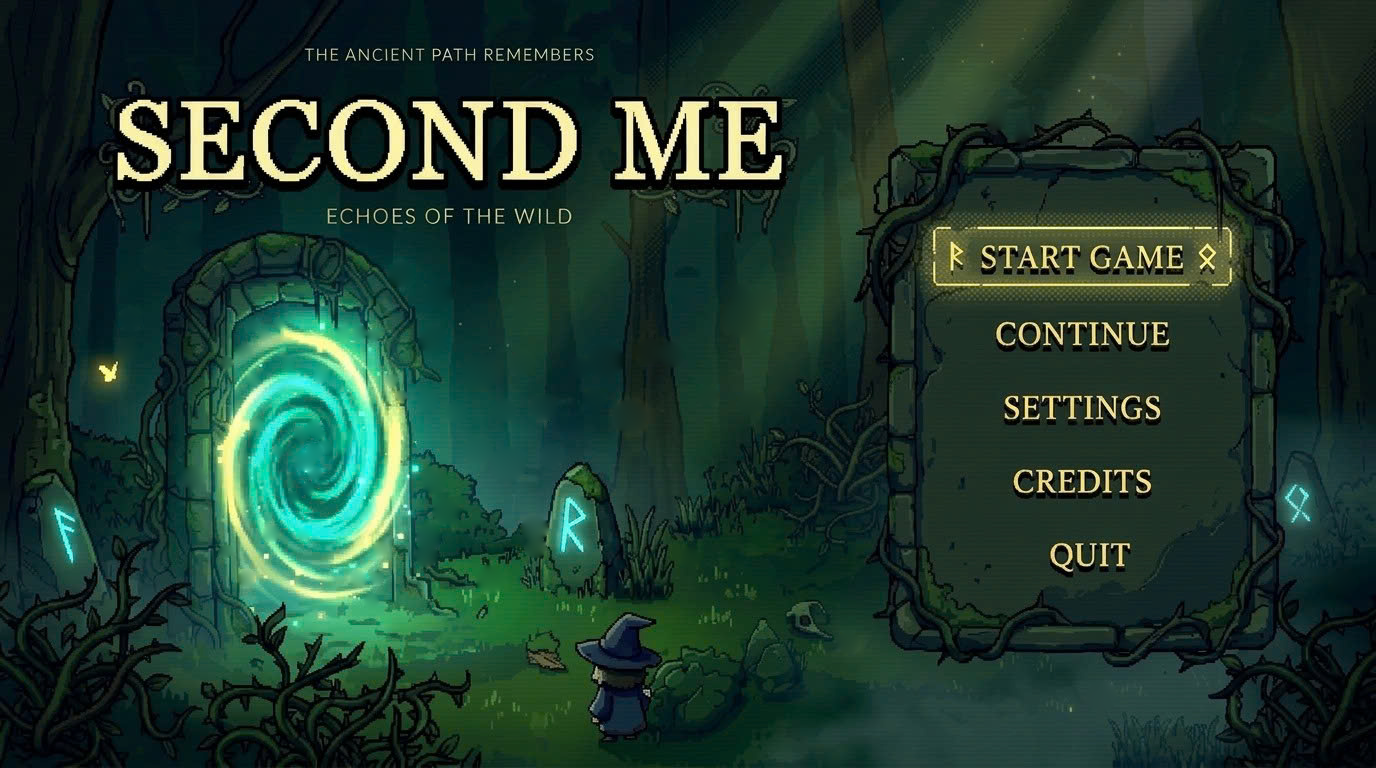
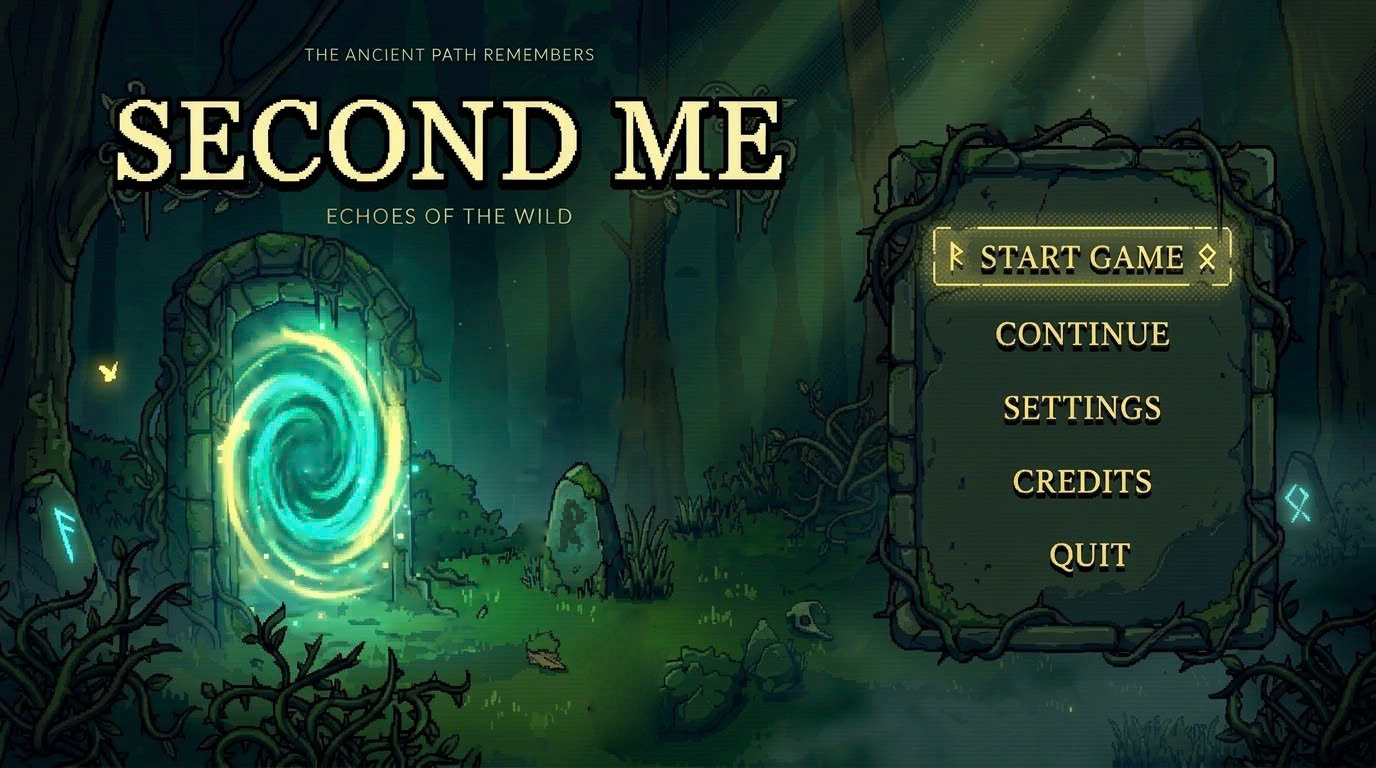
Pixel-2D lobby skin, centred map stops, hero-select focus, living main menu
- Echo Camp lobby: pixel skin (stone wall panels, bevelled buttons, notched slots,
  block progress bar, framed map, square stop badges, parchment tooltips)
- Map stops centred on each clearing; trail ends share the same coordinates
- Hero select: gold corner brackets for hover/focus, cyan only for the selected hero;
  focus starts on the current hero
- Main menu: painted portal swirl (gold arms included) now rotates; in-game Aeris
  replaces the painted wizard with a gentle bob; R rune strokes light up and fade
  with no halo (tools/assets/prepare_menu_wizard_rune.py, original kept in tools/assets/source)
- Stone hover and press sounds on main-menu slabs
- Ignore graphify-out/

Changed region(s): [[0.4062, 0.7812, 0.5, 0.9688], [0.4062, 0.625, 0.4375, 0.7188]]

diff --git a/src/components/JourneyCampPixel.css b/src/components/JourneyCampPixel.css
@@ -1,0 +1,75 @@
+/* Pixel-2D skin for the Echo Camp lobby: hard bevels, notched corners, no soft gradients.
+   Visual only — layout/sizing stays in JourneyCamp*.css. Loaded last. */
+.journey-lobby{
+  --px-ink:#050d08;--px-moss:#3f6a3a;--px-moss-hi:#6f9a55;--px-slot:#0a1610;
+  --px-gold:#e6c46e;--px-gold-hi:#fff0b0;--px-gold-lo:#8a6424;
+  --px-stone:#2b3a2c;--px-stone-hi:#5d7556;--px-stone-lo:#121c14;
+  --px-notch:polygon(0 4px,4px 4px,4px 0,calc(100% - 4px) 0,calc(100% - 4px) 4px,100% 4px,100% calc(100% - 4px),calc(100% - 4px) calc(100% - 4px),calc(100% - 4px) 100%,4px 100%,4px calc(100% - 4px),0 calc(100% - 4px));
+}
+
+/* Header: stone ledge with a hard moss lip */
+.journey-lobby.journey-lobby .lobby-header{background:linear-gradient(#0b1810c0,#0b1810c0),url('/assets/menu/stone-panel.png') 0 0/334px 434px repeat;image-rendering:pixelated;box-shadow:inset 0 -2px 0 var(--px-moss),0 4px 0 var(--px-ink)}
+.journey-lobby .camp-brand b{text-shadow:2px 2px 0 var(--px-ink);color:var(--px-gold-hi)}
+.journey-lobby .camp-brand small{color:var(--px-moss-hi);text-shadow:1px 1px 0 var(--px-ink)}
+.journey-lobby.journey-lobby .lobby-header nav{gap:8px}
+.journey-lobby.journey-lobby .lobby-header nav button{border:3px solid var(--px-ink);border-radius:0;background:var(--px-stone);color:#e9dfbc;clip-path:var(--px-notch);box-shadow:inset 3px 3px 0 var(--px-stone-hi),inset -3px -3px 0 var(--px-stone-lo);transition:none}
+.journey-lobby.journey-lobby .lobby-header nav button:hover{background:#3a4d38;color:var(--px-gold-hi)}
+.journey-lobby.journey-lobby .lobby-header nav button:active{transform:translateY(2px);box-shadow:inset 3px 3px 0 var(--px-stone-lo),inset -3px -3px 0 var(--px-stone-hi)}
+
+/* Sidebar: mossy stone wall, thick pixel edge toward the map */
+.journey-lobby.journey-lobby .journey-camp.integrated-camp{background:linear-gradient(#08140da8,#08140da8),url('/assets/menu/stone-panel.png') 0 0/334px 434px repeat;image-rendering:pixelated;border-right:4px solid var(--px-ink);box-shadow:inset -2px 0 0 var(--px-moss)}
+.journey-lobby .integrated-camp :is(span,strong,b,p){text-shadow:2px 2px 0 var(--px-ink)}
+.journey-lobby .rest-heading{padding:6px 10px;background:var(--px-slot);border:3px solid var(--px-ink);clip-path:var(--px-notch);box-shadow:inset 0 2px 0 var(--px-moss);color:var(--px-gold)}
+
+/* Campsite: a framed window into the scene instead of a soft fade */
+.journey-lobby.journey-lobby .integrated-camp .rest-scene{border-block:4px solid var(--px-ink);box-shadow:0 -2px 0 var(--px-moss),0 2px 0 var(--px-moss)}
+.journey-lobby .rest-scene:after{background:none}
+.journey-lobby.journey-lobby .integrated-camp .rest-scene-caption{background:none;padding-top:8px}
+.journey-lobby .rest-scene-caption strong{color:var(--px-gold-hi)}
+.journey-lobby .rest-scene-caption button{border-bottom:2px dashed var(--px-moss-hi);color:#d8d3a6}
+.journey-lobby .rest-scene-caption button:hover{color:var(--px-gold-hi);border-bottom-style:solid}
+.journey-lobby .rest-hero:after{border-radius:0}
+
+/* Recessed inventory-like slots */
+.journey-lobby .rest-kit,.journey-lobby .rest-departure{margin-top:10px;padding:12px;background:#0a1610e0;border:3px solid var(--px-ink);clip-path:var(--px-notch);box-shadow:inset 3px 3px 0 #02070499,inset -2px -2px 0 #2b4a2a}
+.journey-lobby .rest-kit>div>span,.journey-lobby .rest-departure>span{color:var(--px-moss-hi)}
+.journey-lobby .rest-destination b{color:var(--px-gold)}
+
+/* Stone button */
+.journey-lobby .rest-prepare{border:3px solid var(--px-ink);background:var(--px-stone);color:#f0dc9c;clip-path:var(--px-notch);box-shadow:inset 3px 3px 0 var(--px-stone-hi),inset -3px -3px 0 var(--px-stone-lo)}
+.journey-lobby .rest-prepare:hover{background:#3a4d38;border-color:var(--px-ink)}
+.journey-lobby .rest-prepare:active{transform:translateY(2px);box-shadow:inset 3px 3px 0 var(--px-stone-lo),inset -3px -3px 0 var(--px-stone-hi)}
+
+/* Primary gold button: flat fill, bevel, thick base that collapses when pressed */
+.journey-lobby.journey-lobby .integrated-camp .camp-continue.camp-continue{border:3px solid var(--px-ink);background:var(--px-gold);color:#2a1d08;clip-path:var(--px-notch);box-shadow:inset 3px 3px 0 var(--px-gold-hi),inset -3px -7px 0 var(--px-gold-lo);padding-bottom:13px;transition:none}
+.journey-lobby .integrated-camp .camp-continue>span{text-shadow:1px 1px 0 var(--px-gold-hi)}
+.journey-lobby.journey-lobby .integrated-camp .camp-continue:hover{background:#f2d482;transform:none}
+.journey-lobby.journey-lobby .integrated-camp .camp-continue:active{transform:translateY(4px);box-shadow:inset 3px 3px 0 var(--px-gold-lo),inset -3px -3px 0 var(--px-gold-hi);padding-bottom:9px}
+.journey-lobby .integrated-camp .camp-continue>svg:first-child{animation:px-blink 1s steps(1) infinite}
+
+/* Progress: chunky blocks, the next stop blinks */
+.journey-lobby .rest-progress [role=progressbar]{gap:4px;padding:3px;background:var(--px-ink)}
+.journey-lobby .rest-progress i{width:14px;height:10px;background:#1d2e1f;box-shadow:inset -2px -2px 0 #0e1a10}
+.journey-lobby .rest-progress i.explored{background:#b8c46e;box-shadow:inset 2px 2px 0 #e5ec9c,inset -2px -2px 0 #6c7a35}
+.journey-lobby .rest-progress i.next{background:var(--px-gold);animation:px-blink 1s steps(1) infinite}
+
+/* Map: hard pixel frame over the painting */
+.journey-lobby.journey-lobby .journey-chart.journey-chart{position:relative}
+.journey-lobby .journey-chart:after{content:'';position:absolute;inset:0;z-index:20;pointer-events:none;box-shadow:inset 0 0 0 4px var(--px-ink),inset 0 0 0 6px var(--px-moss),inset 0 0 0 8px var(--px-ink)}
+
+/* Map stops: square pixel badges */
+.journey-lobby .stop-medallion{border-radius:0;border:3px solid var(--px-ink);background:#1f3a26;box-shadow:inset 3px 3px 0 var(--px-moss-hi),inset -3px -3px 0 #0c1d12,0 4px 0 #050d08aa;transition:none}
+.journey-lobby .is-done .stop-medallion{background:#4c5a2c;box-shadow:inset 3px 3px 0 #9fae5e,inset -3px -3px 0 #26301a,0 4px 0 #050d08aa}
+.journey-lobby .is-current .stop-medallion{background:var(--px-gold);color:#2a1d08;box-shadow:inset 3px 3px 0 var(--px-gold-hi),inset -3px -3px 0 var(--px-gold-lo),0 4px 0 #050d08aa}
+.journey-lobby .is-current .stop-medallion:after{border-radius:0;border:2px dashed var(--px-gold-hi);animation:px-blink 1.2s steps(1) infinite}
+.journey-lobby .is-boss .stop-medallion{background:#1d4552;box-shadow:inset 3px 3px 0 #7fd0dc,inset -3px -3px 0 #0b2229,0 4px 0 #050d08aa}
+.journey-lobby .journey-stop[aria-disabled=true] .stop-medallion{background:#16241c;box-shadow:inset 3px 3px 0 #33473a,inset -3px -3px 0 #0a140e}
+.journey-lobby .journey-stop:hover:not([aria-disabled=true]) .stop-medallion{transform:translateY(-2px)}
+.journey-lobby .stop-caption{border-radius:0;border:3px solid var(--px-ink);background:#e6d5a8;box-shadow:inset 3px 3px 0 #fff4cf,inset -3px -3px 0 #a8915c,4px 4px 0 #050d08aa}
+
+@keyframes px-blink{50%{opacity:.35}}
+.journey-lobby .map-still .stop-medallion:after{animation:none}
+@media(prefers-reduced-motion:reduce){.journey-lobby :is(.camp-continue svg,.rest-progress i,.stop-medallion:after){animation:none!important}}
+
+/* Centre the badge exactly on its clearing point (was -35%, which sank it below). */
+.journey-lobby.journey-lobby .journey-stop{transform:translate(-50%,-50%);justify-content:center}

diff --git a/src/components/CampaignUI.tsx b/src/components/CampaignUI.tsx
@@ -14,6 +14,7 @@ import credits from '../game/data/credits.json';
 import { ComboPreview } from './ComboShowcase.tsx';
 import React, { useEffect, useRef, useState } from 'react';
 import { drawWizardSprite } from '../game/rendering/wizardSprite.ts';
+import { sounds } from '../game/logic/sound.ts';
 import { drawSoldierSprite } from '../game/rendering/soldierSprite.ts';
 import { localize } from '../localize.tsx';
 import { translate } from '../i18n.ts';
@@ -62,6 +63,9 @@ export function Intro({ engine, hud }: { engine: GameEngine | null; hud: HUDStat
     { label: vi ? 'THOÁT' : 'QUIT', disabled: false, act: () => setPanel('quit') },
   ];
   const [selected, setSelected] = useState(-1);
+  // Stone tick whenever the highlight lands on a slab, by mouse or arrow keys.
+  useEffect(() => { if (selected >= 0) sounds.playStoneHover(); }, [selected]);
+  const press = (item: typeof items[number]) => { sounds.playStoneClick(); item.act(); };
   const menu = useRef({ items, selected, panel });
   menu.current = { items, selected, panel };
   useEffect(() => {
@@ -77,7 +81,7 @@ export function Intro({ engine, hud }: { engine: GameEngine | null; hud: HUDStat
         setSelected(i);
       } else if ((event.key === 'Enter' || event.key === ' ') && m.selected >= 0) {
         event.preventDefault(); event.stopPropagation();
-        m.items[m.selected].act();
+        sounds.playStoneClick(); m.items[m.selected].act();
       }
     };
     window.addEventListener('keydown', onKey, true);
@@ -103,7 +107,7 @@ export function Intro({ engine, hud }: { engine: GameEngine | null; hud: HUDStat
         // A stone slab (mainMenu.css): its face, carrying the label, rises when selected.
         <button key={i} type="button" className={`intro-menu-item${i === selected ? ' selected' : ''}`} disabled={item.disabled}
           style={{ '--slab': i } as React.CSSProperties}
-          onMouseEnter={() => !item.disabled && setSelected(i)} onMouseLeave={() => setSelected(-1)} onClick={item.act}>
+          onMouseEnter={() => !item.disabled && setSelected(i)} onMouseLeave={() => setSelected(-1)} onClick={() => press(item)}>
           <span className="intro-menu-face"><span className="intro-menu-label">{item.label}</span><MenuVines active={i === selected && !item.disabled} reducedMotion={hud.reducedMotion}/></span>
         </button>
       ))}
@@ -207,6 +211,9 @@ type SelectableCharacter = 'mage' | 'swordsman' | 'mechanical';
 export function Characters({engine, hud}: {engine: GameEngine | null; hud: HUDState}) {
   const vi = hud.language === 'vi';
   const [selected, setSelected] = useState<SelectableCharacter>(hud.characterClass);
+  const grid = useRef<HTMLDivElement>(null);
+  // Start keyboard focus on the current hero, so focus and selection agree on open.
+  useEffect(() => { grid.current?.querySelector<HTMLButtonElement>('.is-selected')?.focus({preventScroll: true}); }, []);
   const roster: {id: SelectableCharacter; name: string; roleVi: string; roleEn: string}[] = [
     {id:'mage', name:'Aeris', roleVi:'Pháp sư', roleEn:'Mage'},
     {id:'swordsman', name:'Kael', roleVi:'Kiếm sĩ', roleEn:'Swordsman'},
@@ -224,7 +231,7 @@ export function Characters({engine, hud}: {engine: GameEngine | null; hud: HUDSt
     <div className="hero-select-scene" role="dialog" aria-modal="true" aria-labelledby="hero-select-title">
       <h1 id="hero-select-title" className="hero-select-title">{vi ? 'CHỌN NHÂN VẬT' : 'CHOOSE YOUR HERO'}</h1>
       <button className="hero-select-back" onClick={() => engine?.goToLobby()} aria-label={vi ? 'Về sảnh' : 'Back to lobby'}>{vi ? 'VỀ SẢNH' : 'BACK'}</button>
-      <div className="hero-select-grid" role="group" aria-label={vi ? 'Chọn nhân vật' : 'Choose character'}>
+      <div className="hero-select-grid" ref={grid} role="group" aria-label={vi ? 'Chọn nhân vật' : 'Choose character'}>
         {Array.from({length:8}, (_, i) => {
           const c = roster[i];
           return c ? <button key={c.id} type="button" className={'hero-slot' + (choice.id === c.id ? ' is-selected' : '')} onClick={() => setSelected(c.id)} aria-pressed={choice.id === c.id} aria-label={`${c.name} · ${vi ? c.roleVi : c.roleEn}`}>

diff --git a/src/components/JourneyCamp.tsx b/src/components/JourneyCamp.tsx
@@ -6,18 +6,20 @@ import { RuneLoadoutEditor, RuneStone } from './EchoRunes.tsx';
 import './JourneyCamp.css';
 import './JourneyCampV2.css';
 import './JourneyCampScene.css';
+import './JourneyCampPixel.css';
 import { JourneyAmbience } from './JourneyAmbience.tsx';
 import { translate } from '../i18n.ts';
 
 // Traced in the painting's native 1536x1024 coordinates, including each bend.
 const trailSegments = [
- 'M215 737 C213 670 246 624 278 604 C310 580 365 580 382 548 C402 514 392 487 412 462 C428 436 439 425 434 410 L430 369',
- 'M430 369 L434 420 C482 426 500 474 509 520 C517 569 523 586 575 599 C624 611 668 639 707 645',
- 'M707 645 C744 620 749 584 757 552 C766 522 791 516 782 488 C776 465 760 454 765 424 C772 385 797 360 840 353 C877 350 908 339 937 328',
- 'M937 328 C977 339 1006 352 1004 390 C999 429 1011 449 1050 464 C1101 483 1149 508 1198 522',
- 'M1198 522 C1240 491 1271 448 1278 405 C1284 379 1327 362 1355 346 C1382 331 1377 303 1364 278 C1355 248 1351 210 1352 174',
+ 'M215 725 C213 670 246 624 278 604 C310 580 365 580 382 548 C402 514 392 487 412 462 C428 436 439 425 434 410 L440 350',
+ 'M440 350 L434 420 C482 426 500 474 509 520 C517 569 523 586 575 599 C624 611 660 630 690 630',
+ 'M690 630 C744 620 749 584 757 552 C766 522 791 516 782 488 C776 465 760 454 765 424 C772 385 797 360 840 353 C877 350 900 315 920 310',
+ 'M920 310 C977 339 1006 352 1004 390 C999 429 1011 449 1050 464 C1101 483 1149 508 1200 515',
+ 'M1200 515 C1240 491 1271 448 1278 405 C1284 379 1327 362 1355 346 C1382 331 1377 303 1364 278 C1355 248 1355 225 1355 205',
 ];
-const positions = [[14,72],[28,36],[46,63],[61,32],[78,51],[88,17]];
+// Centre of each clearing in the same native coordinates (= the trail ends above).
+const stops = [[215,725],[440,350],[690,630],[920,310],[1200,515],[1355,205]];
 export function JourneyCamp({engine,hud,complete,next,traveler,onNews}:{engine:GameEngine|null;hud:HUDState;complete:boolean;next:number;traveler?:React.ReactNode;onNews?:()=>void}) {
   const vi=hud.language==='vi';
   const [runeEditor,setRuneEditor]=useState(false);
@@ -58,7 +60,7 @@ export function JourneyCamp({engine,hud,complete,next,traveler,onNews}:{engine:G
         <div className="chart-north" aria-hidden="true">N<span>↑</span></div>
         {LEVELS.map((item,i)=>{
           const ready=unlocked(i),done=i<5?hud.completed.includes(i+1):complete,current=i===next&&!complete;
-          return <button key={item.id} className={`journey-stop ${done?'is-done':''} ${current?'is-current':''} ${i===5?'is-boss':''} ${inspect===i?'is-inspected':''}`} style={{left:`${positions[i][0]}%`,top:`${positions[i][1]}%`}} aria-disabled={!ready} onMouseEnter={()=>setInspect(i)} onMouseLeave={()=>{if(touchInspect===null)setInspect(null);}} onFocus={()=>setInspect(i)} onBlur={()=>{setInspect(null);setTouchInspect(null);}} onClick={()=>{
+          return <button key={item.id} className={`journey-stop ${done?'is-done':''} ${current?'is-current':''} ${i===5?'is-boss':''} ${inspect===i?'is-inspected':''}`} style={{left:`${stops[i][0]/15.36}%`,top:`${stops[i][1]/10.24}%`}} aria-disabled={!ready} onMouseEnter={()=>setInspect(i)} onMouseLeave={()=>{if(touchInspect===null)setInspect(null);}} onFocus={()=>setInspect(i)} onBlur={()=>{setInspect(null);setTouchInspect(null);}} onClick={()=>{
               if(window.matchMedia('(hover: none)').matches&&touchInspect!==i){setTouchInspect(i);setInspect(i);return;}
               if(ready)engine?.selectLevel(i);
             }} aria-label={`${String(i+1).padStart(2,'0')} · ${translate(item.subtitle,hud.language)} · ${done?(vi?'Đã hoàn thành':'Cleared'):ready?(vi?'Sẵn sàng':'Ready'):(vi?'Chưa mở':'Locked')}`}>

diff --git a/src/components/IntroEffects.tsx b/src/components/IntroEffects.tsx
@@ -52,7 +52,20 @@ export function IntroEffects() {
         <radialGradient id="intro-portal-light"><stop offset="0" stopColor="#bdffcb" stopOpacity=".23"/><stop offset=".55" stopColor="#2ae9bd" stopOpacity=".14"/><stop offset="1" stopColor="#19d5b2" stopOpacity="0"/></radialGradient>
         <radialGradient id="intro-portal-core"><stop offset="0" stopColor="#d7ffe5" stopOpacity=".62"/><stop offset=".38" stopColor="#52ffc9" stopOpacity=".32"/><stop offset="1" stopColor="#31e8b6" stopOpacity="0"/></radialGradient>
         <filter id="intro-soft-glow" x="-80%" y="-80%" width="260%" height="260%"><feGaussianBlur stdDeviation="7"/></filter>
+        <radialGradient id="intro-swirl-fade"><stop offset=".9" stopColor="#fff"/><stop offset="1" stopColor="#fff" stopOpacity="0"/></radialGradient>
+        {/* Solid out to 90%: the gold ring sits at 85-95% of the radius, so an earlier fade let the static painted gold show through. */}
+        <mask id="intro-swirl-mask" maskUnits="userSpaceOnUse" x="180" y="260" width="260" height="380"><ellipse cx="309" cy="445" rx="108" ry="162" fill="url(#intro-swirl-fade)"/></mask>
       </defs>
+      {/* The painted swirl itself (gold arms included) spins: a copy of the painting rotated about the
+          portal centre in a frame stretched 1.5x vertically, so the ellipse maps onto itself; the
+          feathered mask blends its edge into the static arch. */}
+      <g mask="url(#intro-swirl-mask)">
+        <g transform="translate(309 445) scale(1 1.5)">
+          <g className="portal-swirl">
+            <image href="/assets/menu/second-me-forest-clean.png" width="1376" height="768" transform="scale(1 .6667) translate(-309 -445)" preserveAspectRatio="none"/>
+          </g>
+        </g>
+      </g>
       <ellipse className="portal-breath" cx="309" cy="445" rx="104" ry="157" fill="url(#intro-portal-light)"/>
       <g clipPath="url(#intro-portal-clip)">
         {[0, 1, 2].map(index => <g className="plasma-wave" style={{ animationDelay: `${index * -1.3}s` }} key={index}>
@@ -72,9 +85,10 @@ export function IntroEffects() {
       <g className="rune-glow rune-one" fill="none" stroke="#86fff0" strokeWidth="2.6" strokeLinecap="round" strokeLinejoin="round">
         <path d="M63 548 L53 508 L69 521 M55 518 L67 525"/>
       </g>
-      <g className="rune-glow rune-two" fill="none" stroke="#86fff0" strokeWidth="3" strokeLinecap="round" strokeLinejoin="round">
-        <path d="M568 546 L562 506 L585 520 L566 532 M566 532 L583 549"/>
-      </g>
+      {/* Painting's R is baked unlit (tools/assets/prepare_menu_wizard_rune.py); this is the original lit R. */}
+      <image className="rune-r-lit" href="/assets/menu/rune-r-lit.png" x="548" y="484" width="52" height="82" preserveAspectRatio="none"/>
+      {/* The in-game Aeris, back turned, where the painted wizard stood (feet at 621,742). */}
+      <image className="menu-wizard" href="/assets/menu/menu-wizard.png" x="574" y="613.5" width="94" height="128.5" preserveAspectRatio="none"/>
       <g className="rune-glow rune-three" fill="none" stroke="#86fff0" strokeWidth="2.7" strokeLinecap="round" strokeLinejoin="round">
         <path d="M1299 521 L1312 487 L1291 501 L1307 510 M1301 520 L1288 537"/>
       </g>

diff --git a/src/adventure.css b/src/adventure.css
@@ -155,8 +155,11 @@ body{font-family:'Segoe UI',Arial,sans-serif!important;background:#09130f!import
 .hero-select-grid{position:absolute;left:21%;right:21%;top:21.5%;height:44%;display:grid;grid-template-columns:repeat(4,minmax(0,1fr));grid-template-rows:repeat(2,minmax(0,1fr));gap:2.8% 1.7%}
 .hero-slot{position:relative;min-width:0;min-height:0;overflow:hidden;border:3px solid #6c7561;border-radius:5px;background:linear-gradient(145deg,#706d5b,#514f43 65%,#353c32);box-shadow:inset 0 0 0 2px #272d26,0 3px 0 #131d17;color:#f6ecd0;padding:0;cursor:pointer}
 .hero-slot::after{content:'';position:absolute;inset:2px;pointer-events:none;border:1px solid #a3a38655;border-radius:2px}
-.hero-slot:hover,.hero-slot:focus-visible{border-color:#b1e9cf;outline:2px solid #6afde1;outline-offset:1px}
-.hero-slot.is-selected{border-color:#90ffe8;background:radial-gradient(circle at 50% 65%,#4fcab9aa,#415c4a 52%,#464c3e);box-shadow:inset 0 0 0 2px #b9fff4,0 0 12px #66ffe4,0 0 25px #22cabd80}
+.hero-slot,.hero-slot::after{border-radius:0}
+/* Hover/focus = gold pixel corner brackets only; cyan is reserved for the selected hero. */
+.hero-slot:not(.hero-slot-empty):is(:hover,:focus-visible){outline:none;border-color:#c9b26a}
+.hero-slot:not(.hero-slot-empty):is(:hover,:focus-visible)::after{inset:3px;border:0;--c:#f2d27a;background:linear-gradient(var(--c),var(--c)) 0 0/14px 4px,linear-gradient(var(--c),var(--c)) 0 0/4px 14px,linear-gradient(var(--c),var(--c)) 100% 0/14px 4px,linear-gradient(var(--c),var(--c)) 100% 0/4px 14px,linear-gradient(var(--c),var(--c)) 0 100%/14px 4px,linear-gradient(var(--c),var(--c)) 0 100%/4px 14px,linear-gradient(var(--c),var(--c)) 100% 100%/14px 4px,linear-gradient(var(--c),var(--c)) 100% 100%/4px 14px;background-repeat:no-repeat}
+.hero-slot.is-selected,.hero-slot.is-selected:is(:hover,:focus-visible){border-color:#90ffe8;background:radial-gradient(circle at 50% 65%,#4fcab9aa,#415c4a 52%,#464c3e);box-shadow:inset 0 0 0 3px #b9fff4,inset 0 0 0 5px #1d6f66,0 0 0 3px #0a1a14,0 0 0 6px #66ffe466}
 .hero-slot-label{position:absolute;z-index:1;top:4%;left:4%;right:4%;padding:3px 2px;overflow:hidden;text-overflow:ellipsis;white-space:nowrap;background:#17362ce5;border:1px solid #9cb3958a;border-radius:3px;color:#e5f5df;font:bold clamp(9px,1.1vw,16px)/1.1 Georgia,serif;text-align:center}
 .hero-slot-figure{position:absolute;inset:23% 12% 2%;display:flex;align-items:center;justify-content:center}.hero-slot-figure canvas{height:100%;width:auto;max-width:100%;image-rendering:pixelated;filter:drop-shadow(0 4px 1px #081914)}.hero-slot-figure .mechanical-portrait{width:auto;height:100%}
 .hero-slot-empty{cursor:default;background:linear-gradient(145deg,#756f5e,#514f42);opacity:.84}.hero-slot-empty::before{content:'';position:absolute;inset:4%;border-left:5px solid #3d6841;border-bottom:4px solid #466f45;border-radius:35% 8% 28% 20%;transform:rotate(-5deg)}.hero-slot-empty span{position:absolute;right:8%;top:5%;font-size:16px;color:#86a37177}

diff --git a/src/mainMenu.css b/src/mainMenu.css
@@ -11,7 +11,7 @@
 .portal-core{transform-box:view-box;transform-origin:309px 445px;animation:plasma-core 3.9s ease-in-out infinite}
 .portal-motes circle{filter:drop-shadow(0 0 4px #7effd9);animation:portal-mote-inward var(--mote-duration) ease-in var(--mote-delay) infinite}
 .rune-glow{opacity:.35;filter:drop-shadow(0 0 7px #49f9e6);animation:rune-pulse 3.5s ease-in-out infinite}
-.rune-two{animation-delay:-1.1s}.rune-three{animation-delay:-2.2s}
+.rune-three{animation-delay:-2.2s}
 .intro-fireflies circle{opacity:.2;filter:drop-shadow(0 0 5px var(--fly-color));animation:firefly-float var(--fly-duration) ease-in-out var(--fly-delay) infinite,firefly-twinkle var(--twinkle-duration) ease-in-out var(--fly-delay) infinite}
 .intro-foliage-patch{position:absolute;inset:0;background:url('/assets/menu/second-me-forest-clean.png') center / 100% 100% no-repeat;opacity:.9;animation:foliage-sway 5.8s ease-in-out infinite alternate}
 .foliage-left{clip-path:polygon(0 70%,12% 70%,12% 100%,0 100%);mask-image:radial-gradient(ellipse 8% 18% at 4% 91%,#000 16%,transparent 100%);transform-origin:4% 100%}
@@ -26,6 +26,18 @@
 @keyframes firefly-twinkle{0%,100%{opacity:.12}22%{opacity:.88}49%{opacity:.26}72%{opacity:1}88%{opacity:.2}}
 body.reduced-motion .intro-fireflies,body.reduced-motion .portal-motes{display:none}
 @media(prefers-reduced-motion:reduce){.intro-fireflies,.portal-motes{display:none}}
+.portal-swirl{transform-box:view-box;transform-origin:0 0;animation:portal-swirl 16s linear infinite}
+@keyframes portal-swirl{to{transform:rotate(-360deg)}}
+body.reduced-motion .portal-swirl{animation:none}
+@media(prefers-reduced-motion:reduce){.portal-swirl{animation:none}}
+/* R rune strokes, no halo: from min up to max, slowly fully off, back to max, ease down to min (loops from there). */
+.rune-r-lit{animation:rune-blink 9s ease-in-out infinite}
+@keyframes rune-blink{0%,100%{opacity:.6}10%{opacity:1}45%,52%{opacity:0}66%{opacity:1}}
+/* Wizard dips gently, squashing from the feet. */
+.menu-wizard{image-rendering:pixelated;transform-box:view-box;transform-origin:621px 742px;animation:wizard-bob 1.6s ease-in-out infinite}
+@keyframes wizard-bob{50%{transform:scale(1.03,.95)}}
+body.reduced-motion :is(.rune-r-lit,.menu-wizard){animation:none}
+@media(prefers-reduced-motion:reduce){:is(.rune-r-lit,.menu-wizard){animation:none}}
 @keyframes foliage-sway{from{transform:translateX(-1px) rotate(-.16deg)}to{transform:translateX(2px) rotate(.23deg)}}
 .intro-accessible-title{position:absolute;width:1px;height:1px;padding:0;margin:-1px;overflow:hidden;clip:rect(0,0,0,0);white-space:nowrap;border:0}
 .intro-mobile-title{display:none}

diff --git a/src/game/logic/sound.ts b/src/game/logic/sound.ts
@@ -211,6 +211,32 @@ class SoundEngine {
     osc.stop(t + 0.06);
   }
 
+  /** Main-menu stone slab under the pointer / arrow keys: a light gritty tick. */
+  public playStoneHover() { this.stoneHit(0.08, 900, 0.07, 190, 120, 0.05); }
+
+  /** Main-menu stone slab pressed: grind plus a low thud. */
+  public playStoneClick() { this.stoneHit(0.22, 520, 0.16, 140, 50, 0.32); }
+
+  /** Filtered noise burst (stone grit) over a falling sine (the weight of the slab). */
+  private stoneHit(dur: number, gritHz: number, gritPeak: number, thudFrom: number, thudTo: number, thudPeak: number) {
+    if (this.isMuted) return;
+    this.initCtx();
+    if (!this.ctx || !this.effectsGain) return;
+    const ctx = this.ctx, t = ctx.currentTime;
+    const buf = ctx.createBuffer(1, Math.ceil(ctx.sampleRate * dur), ctx.sampleRate);
+    const data = buf.getChannelData(0);
+    for (let i = 0; i < data.length; i++) data[i] = Math.random() * 2 - 1;
+    const grit = ctx.createBufferSource(), filt = ctx.createBiquadFilter(), gritGain = ctx.createGain();
+    grit.buffer = buf; filt.type = 'bandpass'; filt.frequency.value = gritHz * (0.95 + Math.random() * 0.1); filt.Q.value = 1.1;
+    gritGain.gain.setValueAtTime(gritPeak, t); gritGain.gain.exponentialRampToValueAtTime(0.001, t + dur);
+    grit.connect(filt); filt.connect(gritGain); gritGain.connect(this.effectsGain);
+    const thud = ctx.createOscillator(), thudGain = ctx.createGain();
+    thud.type = 'sine'; thud.frequency.setValueAtTime(thudFrom, t); thud.frequency.exponentialRampToValueAtTime(thudTo, t + dur * 0.8);
+    thudGain.gain.setValueAtTime(thudPeak, t); thudGain.gain.exponentialRampToValueAtTime(0.001, t + dur);
+    thud.connect(thudGain); thudGain.connect(this.effectsGain);
+    grit.start(t); thud.start(t); grit.stop(t + dur); thud.stop(t + dur);
+  }
+
   /** Short low impact for damage, bright metallic tone when a shield absorbs it. */
   public playImpact(blocked=false){
     if(this.isMuted)return;this.initCtx();if(!this.ctx||!this.effectsGain)return;

diff --git a/tools/assets/prepare_menu_wizard_rune.py b/tools/assets/prepare_menu_wizard_rune.py
@@ -1,0 +1,69 @@
+"""Main-menu painting: swap the painted wizard for the in-game one, and make the R rune blinkable.
+
+Input   tools/assets/source/second-me-forest-clean.png   (the original painting, untouched)
+        public/assets/aeris/Aeris_Walk.png                 (game sprite sheet; row 0 = facing away)
+Output  public/assets/menu/second-me-forest-clean.png     painting without the wizard, R rune unlit (engraved)
+        public/assets/menu/rune-r-lit.png                  the original lit R, laid back on top and faded in/out
+        public/assets/menu/menu-wizard.png                 back-facing Aeris frame, cropped, hard alpha like the game
+
+Coordinates are the painting's native 1376x768 pixels; IntroEffects.tsx places the overlays with the same numbers.
+Run from the repo root: python tools/assets/prepare_menu_wizard_rune.py
+"""
+from pathlib import Path
+
+import numpy as np
+from PIL import Image, ImageDraw, ImageFilter
+
+from inpaint import erase
+
+ROOT = Path(__file__).resolve().parents[2]
+SRC = ROOT / 'tools/assets/source/second-me-forest-clean.png'
+MENU = ROOT / 'public/assets/menu'
+
+RUNE_BOX = (548, 484, 600, 566)          # x0, y0, x1, y1 around the R and its halo
+WIZARD_POLY = [(640, 610), (654, 622), (630, 640), (664, 651), (662, 667), (655, 673), (657, 744),
+               (594, 744), (590, 669), (572, 655), (574, 639), (609, 627), (625, 610)]
+SPRITE_CELL = (59, 35, 209, 240)         # opaque bounds of row 0, frame 0 in the 256px cell
+
+
+def dilate(mask: np.ndarray, px: int) -> np.ndarray:
+    img = Image.fromarray(mask.astype(np.uint8) * 255).filter(ImageFilter.MaxFilter(px * 2 + 1))
+    return np.asarray(img) > 0
+
+
+def main() -> None:
+    painting = Image.open(SRC).convert('RGB')
+    assert painting.size == (1376, 768), painting.size
+    im = np.asarray(painting).astype(np.float32)
+
+    # R rune: the strokes themselves light up, no halo on the stone. The overlay keeps only the glyph
+    # pixels (cyan > 95: the whole R without the spill); the base loses the spill and keeps the R engraved dark.
+    x0, y0, x1, y1 = RUNE_BOX
+    box = im[y0:y1, x0:x1]
+    cyan = (box[..., 1] + box[..., 2]) / 2 - box[..., 0]
+    glow = dilate(cyan > 70, 2)
+    glyph = cyan > 95
+    assert 150 < glow.sum() < box.shape[0] * box.shape[1] * .8, glow.sum()  # found the glyph, not the whole stone
+    lit = np.dstack([box, glyph * 255]).astype(np.uint8)
+    Image.fromarray(lit, 'RGBA').save(MENU / 'rune-r-lit.png')
+    unlit = erase(box, glow, (0, 0, 12, box.shape[0]), strength=.3)  # grain from the stone's left edge
+    unlit[glyph] *= .62
+    im[y0:y1, x0:x1] = unlit
+
+    # Wizard: refill the figure from the surrounding grass; the sprite stands on the same spot.
+    hole_img = Image.new('L', painting.size, 0)
+    ImageDraw.Draw(hole_img).polygon(WIZARD_POLY, fill=255)
+    hole = dilate(np.asarray(hole_img) > 0, 3)
+    im = erase(im, hole, (520, 690, 570, 740))
+
+    Image.fromarray(np.clip(im, 0, 255).astype(np.uint8)).save(MENU / 'second-me-forest-clean.png')
+
+    sheet = Image.open(ROOT / 'public/assets/aeris/Aeris_Walk.png').convert('RGBA')
+    frame = np.asarray(sheet.crop(SPRITE_CELL)).copy()
+    frame[..., 3] = np.where(frame[..., 3] >= 180, 255, 0)  # same hard alpha as wizardSprite.ts
+    Image.fromarray(frame).save(MENU / 'menu-wizard.png')
+    print('wrote', MENU / 'second-me-forest-clean.png', MENU / 'rune-r-lit.png', MENU / 'menu-wizard.png')
+
+
+if __name__ == '__main__':
+    main()
